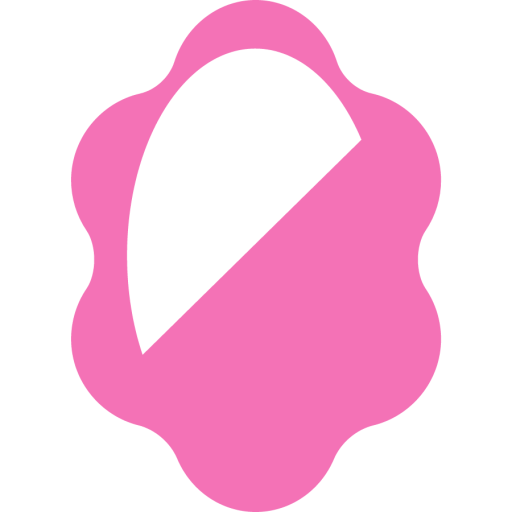
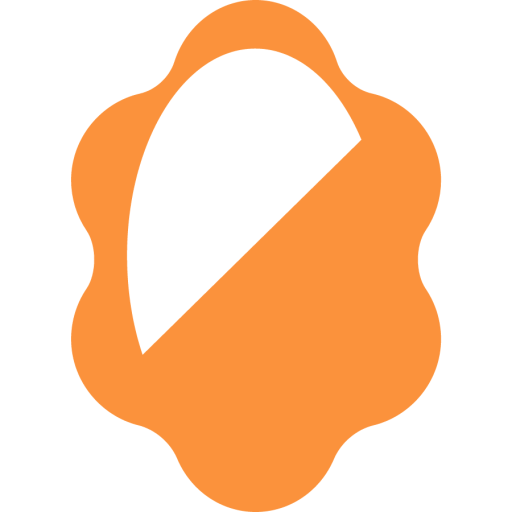
chore: update public assets

diff --git a/README.md b/README.md
@@ -10,7 +10,7 @@
 <br>
 <p align="center">
   <a style="text-decoration:none" href="https://github.com/KeJunMao" target="_blank">
-    <img src="https://img.shields.io/badge/Author-KeJun-00db80" alt="Author" />
+    <img src="https://img.shields.io/badge/Author-KeJun-fb923c" alt="Author" />
   </a>
 </p>
 
